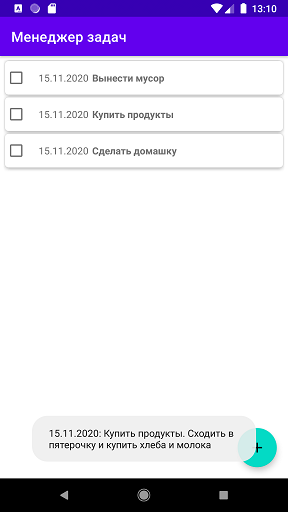
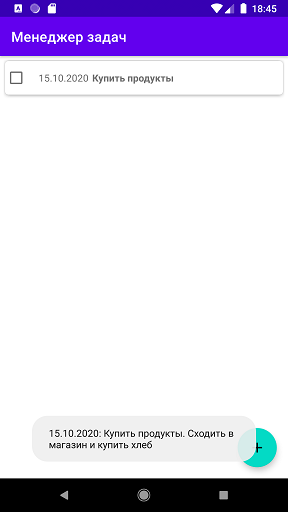
add info to readme

diff --git a/DSTU/hw6/README.md b/DSTU/hw6/README.md
@@ -1,9 +1,9 @@
-### Самостоятельное практическое задание "Использование RecycleView и CardView для отображения списков"
+### Самостоятельное практическое задание "Хранение данных приложения в базе данных SqLite"
 
 #### Задание:
-Создать приложение «Менеджер задач», отображающее на экране список задач. Каждый элемент списка состоит из двух текстовых полей (название задачи и дата) и чекбокса. При снятии галочки в чекбоксе, задача должны быть удалена из списка. В нижний правый угол добавить кнопку «плюс» (Floating Action Button) – кнопка ничего не делает. При клике на элемент списка должно появляться сообщение (Toast) с полной информацией о задаче.
+Обновить приложение «Менеджер задач», из предыдущей лабораторной работы. Требуется сохранить данные о задачах в базе данных. При клике на кнопку «плюс» (Floating Action Button) должно открываться активити, используя которою можно добавить в базу данных новую задачу. При возращении на главную активность список задач должен содержать обновленные данные, для это можно использовать метод адаптера notifyDataSetChange().При снятии галочки в чекбоксе, задача должна быть удалена из списка и базы данных.
 
-[Ссылка на github](https://github.com/averveiko/android/tree/main/DSTU/hw5)
+[Ссылка на github](https://github.com/averveiko/android/tree/main/DSTU/hw6)
 
 Скриншоты выполненного задания:
 
@@ -11,6 +11,14 @@
 
 ![Main screen](scr/scr01.png)
 
-При установке check box'а задача удаляется из списка
+Экран добавления новой задачи
 
 ![Main screen](scr/scr02.png)
+
+Задача добавлена, список обновлен
+
+![Main screen](scr/scr03.png)
+
+При установке check box'а задача удаляется из списка
+
+![Main screen](scr/scr04.png)
